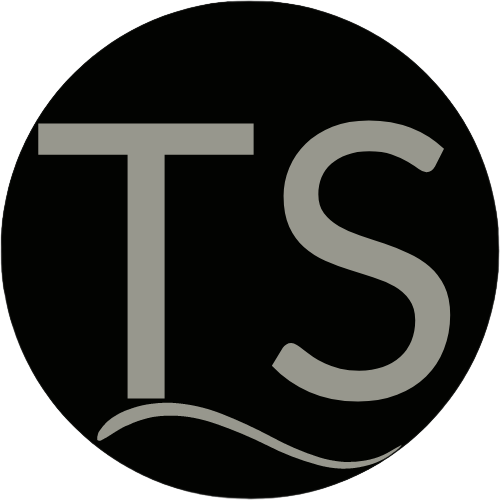
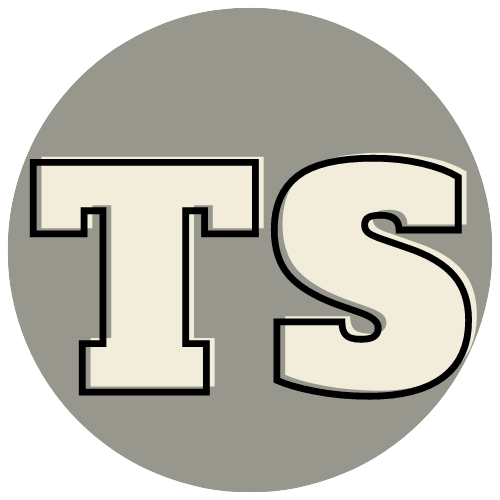
TS change

diff --git a/templates/catalogo.html b/templates/catalogo.html
@@ -15,8 +15,8 @@
 <body class='body2'>
   <header>
     <div class="otroHeader">
-      <div id="fotodiv" class="divFoto divFoto2">
-        <img id='fotoheader' src="{{url_for('static', filename='images/faviconblanco.png')}}" alt="">
+      <div class="divFoto">
+        <img id='fotoheader' style="width: 50px; visibility: hidden;" src="{{url_for('static', filename='images/TS2.png')}}" alt="TS">
       </div>
 
       <div id="lanav" class="list list2">

diff --git a/templates/index.html b/templates/index.html
@@ -16,7 +16,7 @@
   <header>
     <div class="otroHeader">
       <div class="divFoto">
-        <img id='fotoheader' src="{{url_for('static', filename='images/faviconblanco.png')}}" alt="">
+        <img id='fotoheader' style="width: 50px;" src="{{url_for('static', filename='images/TS.png')}}" alt="TS">
       </div>
 
       <div class="list">

diff --git a/static/css/styles.css b/static/css/styles.css
@@ -71,7 +71,7 @@ header img {
 .list{
     display: flex;
     justify-content: flex-end;
-    width: 25%;
+    width: 60%
 }
 
 .list2{
